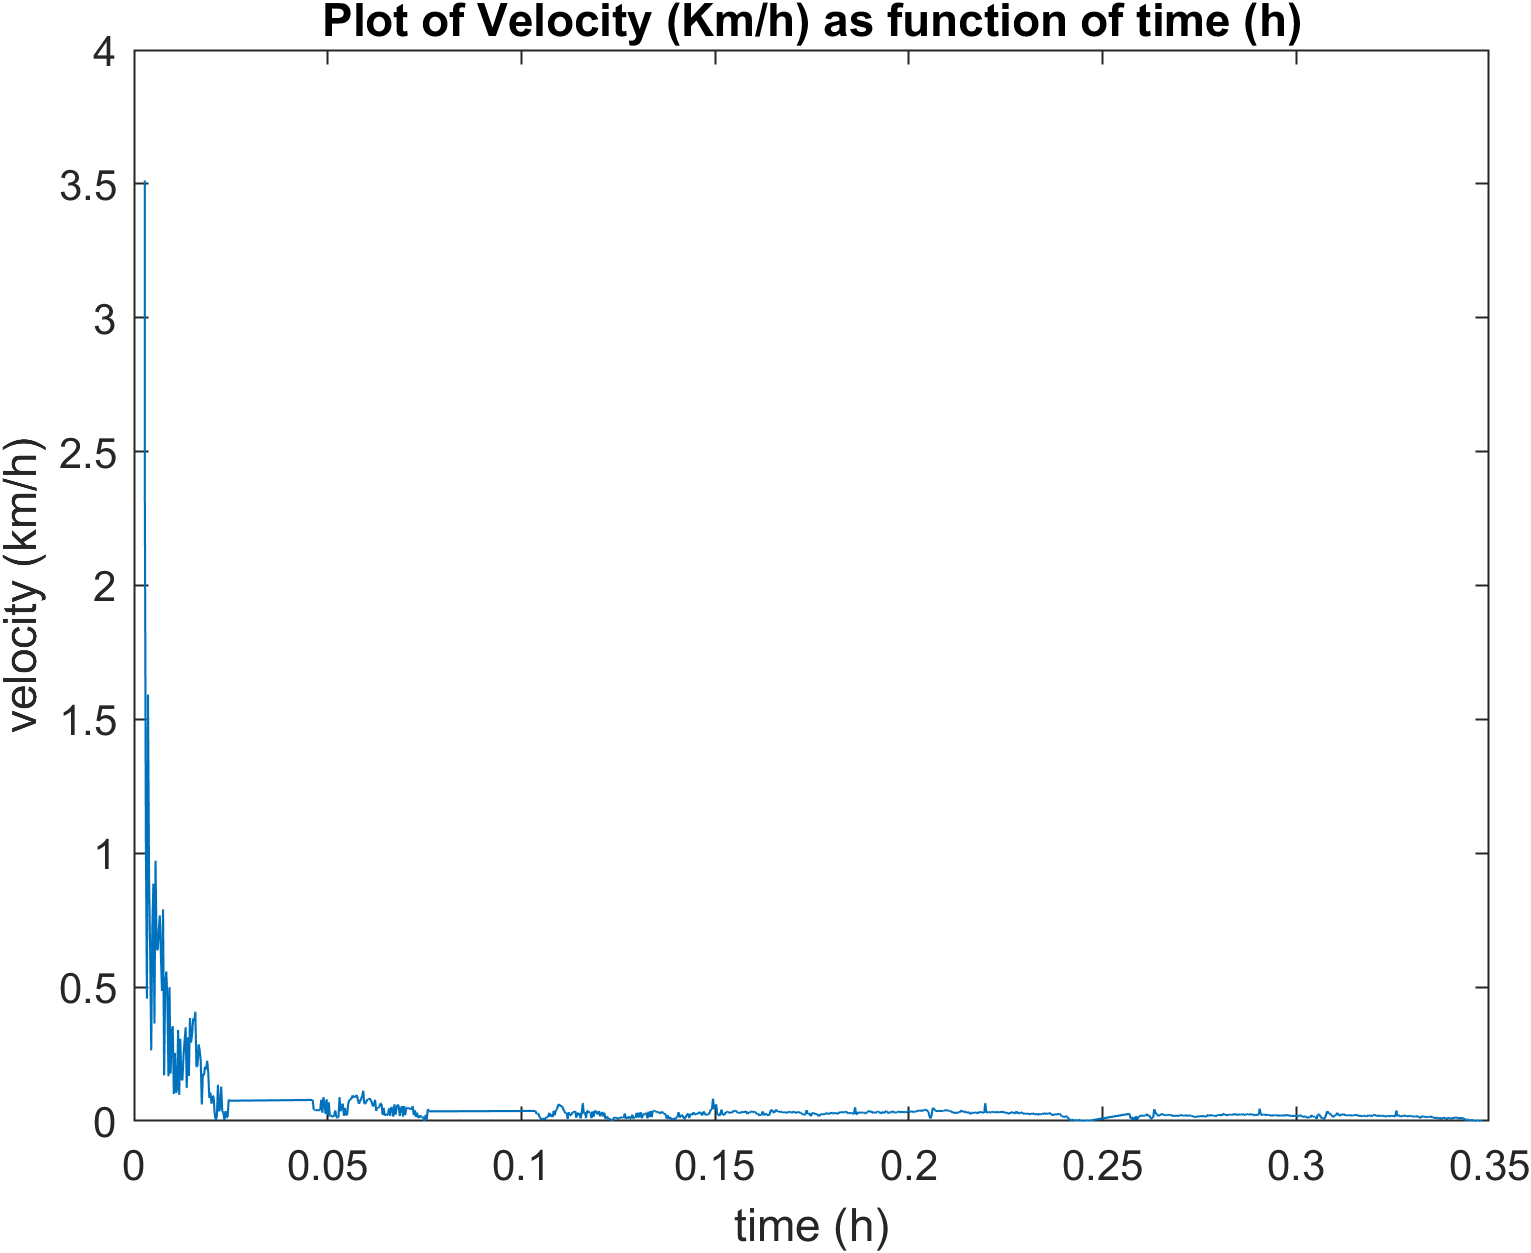
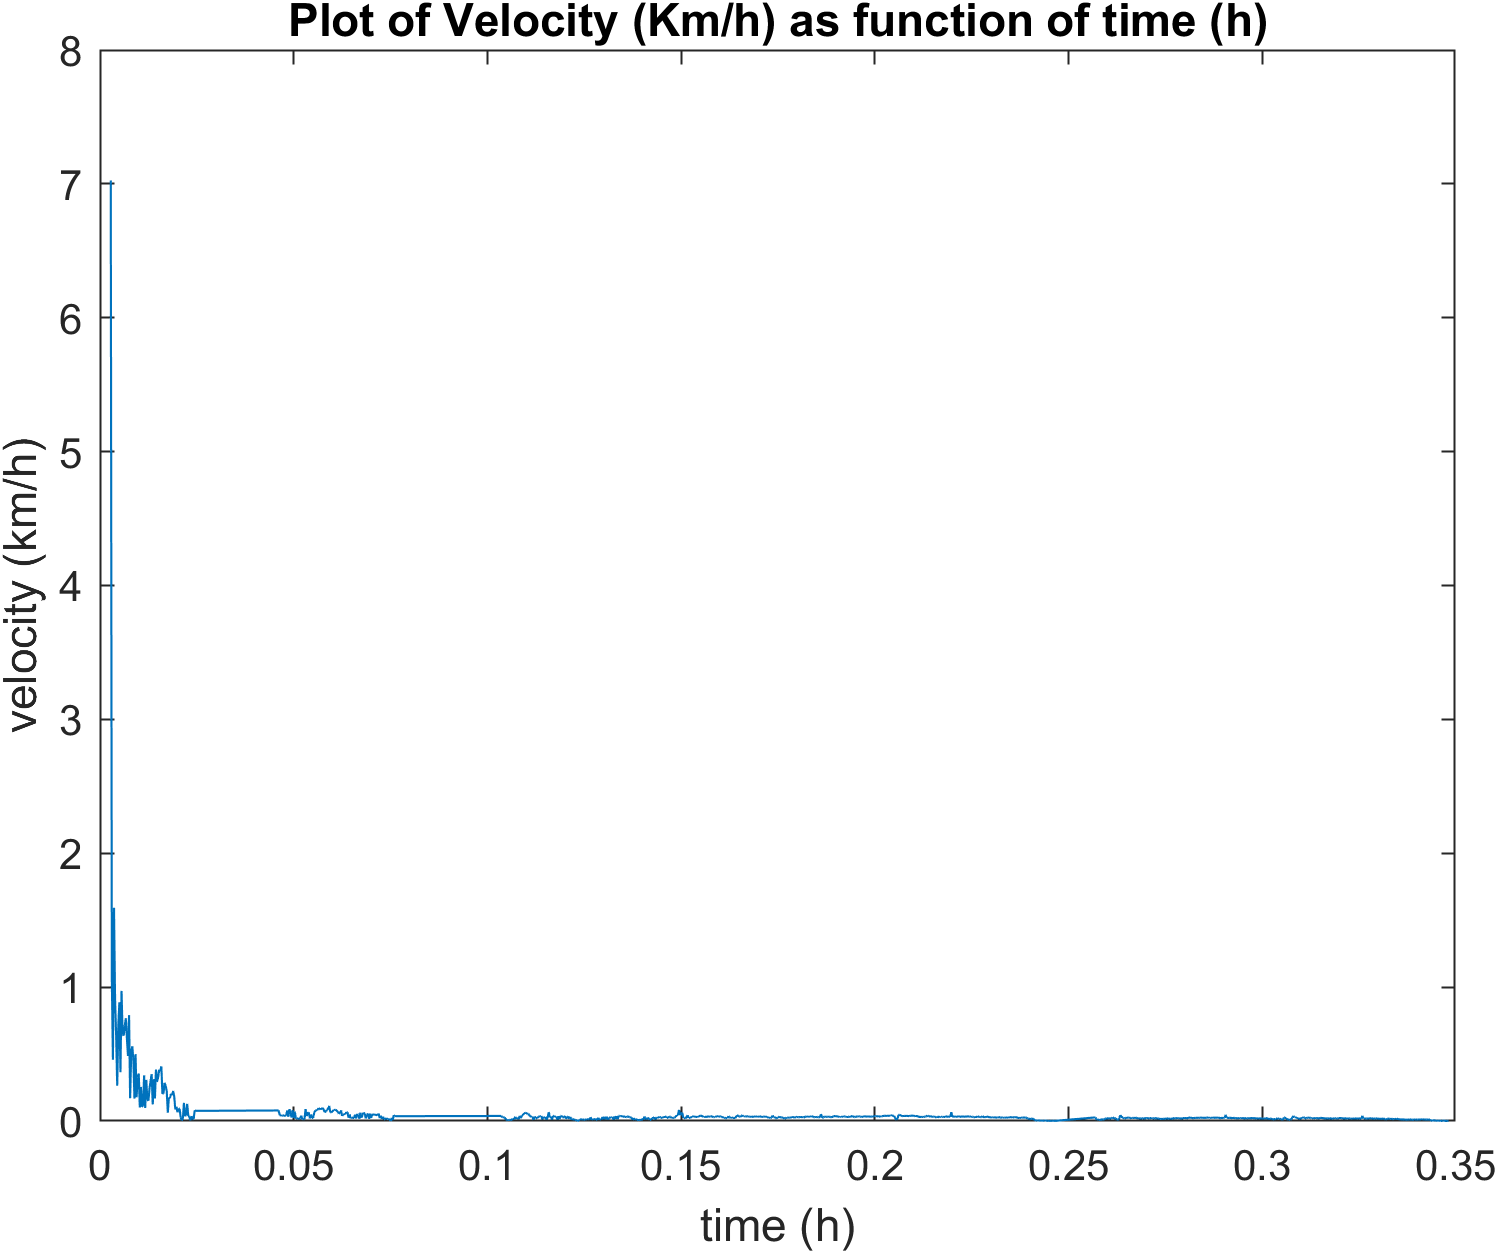
Filtering Out Repeated Timestamps

Changed region(s): [[0.0307, 0.0311, 0.9833, 1.0], [0.1844, 0.0, 0.8604, 0.0311]]

diff --git a/main/main.m b/main/main.m
@@ -29,14 +29,33 @@ master_table(:,1) = times;
 master_table(:,2:3) = coords;
 master_table(:,4) = elevations;
 
-velocity(master_table)
-f = gcf;
-exportgraphics(f,'barchart.png','Resolution',300)
+previous_time = -1;
+output_table = zeros(size(master_table));
+insertIndex = 0;
+for row = 1:length(master_table)
+    time = master_table(row, 1);
+    
+         
+    if time > previous_time
+        insertIndex = insertIndex+1;
+        previous_time = time;
+    elseif time < previous_time
+        disp("There is a notable data consistency issue.")
+        disp("The provided file contains timestamps that go backwards in time")
+    end
 
-save_plot(@()velocity(master_table), "testexport.png")
+    output_table(insertIndex,:) = master_table(row, :);
+end
+
+% Truncate the the filtered table to remove trailing zeros made with
+% pre-allocation
+output_table = output_table(1:insertIndex, :);
+
+
+save_plot(@()velocity(output_table), "testexport.png");
 
 function save_plot(func, filename)
-    func()
-    f = gcf;
-    exportgraphics(f,filename,'Resolution',300)
+    func(); % Invoke the plotting function passed by the function handle 'func'
+    f = gcf; % Get access to the current graphics handle
+    exportgraphics(f,filename,'Resolution',300); % save the graphics to a file
 end
